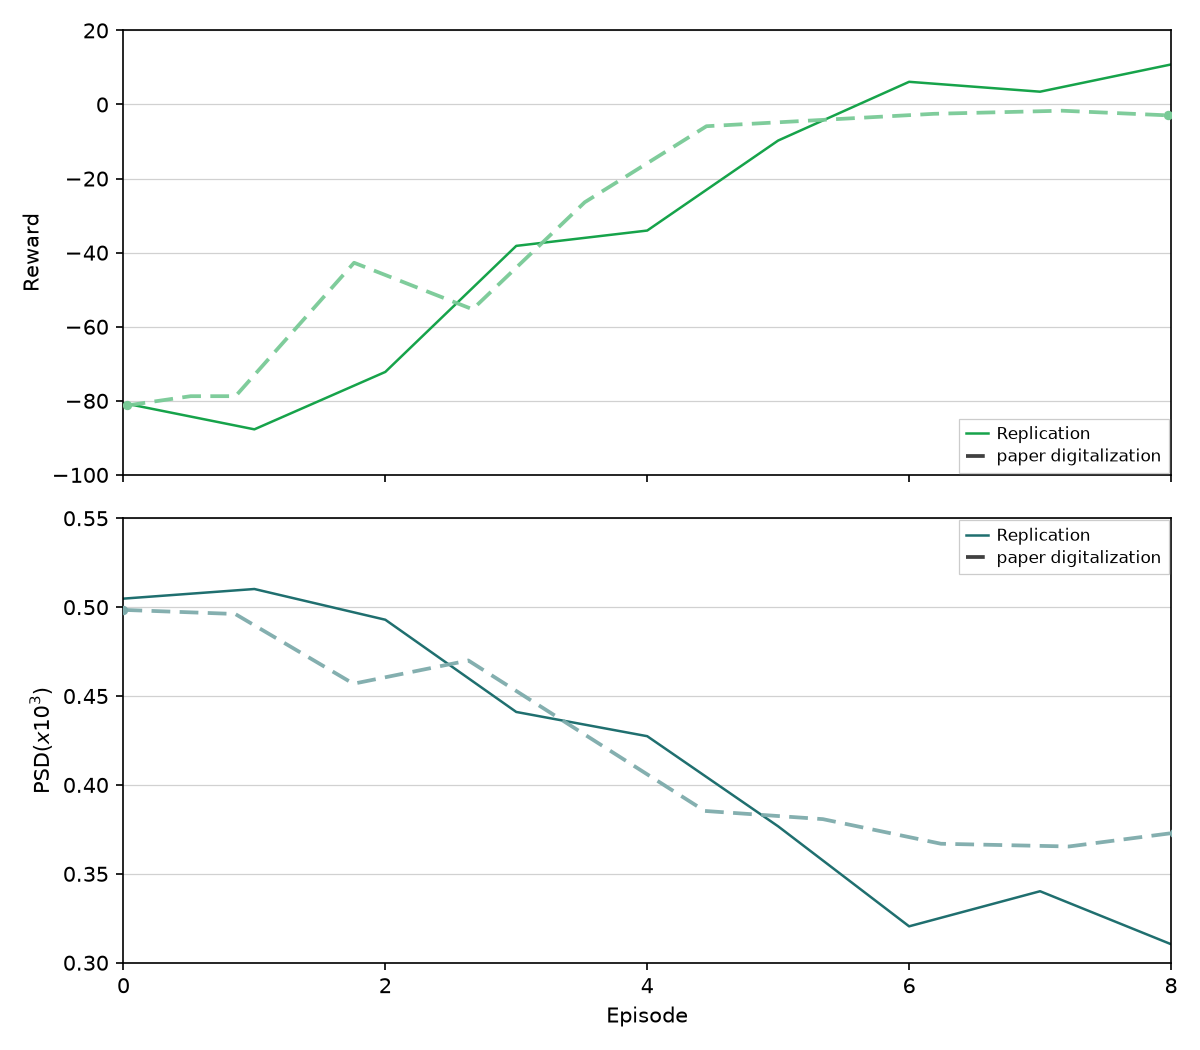
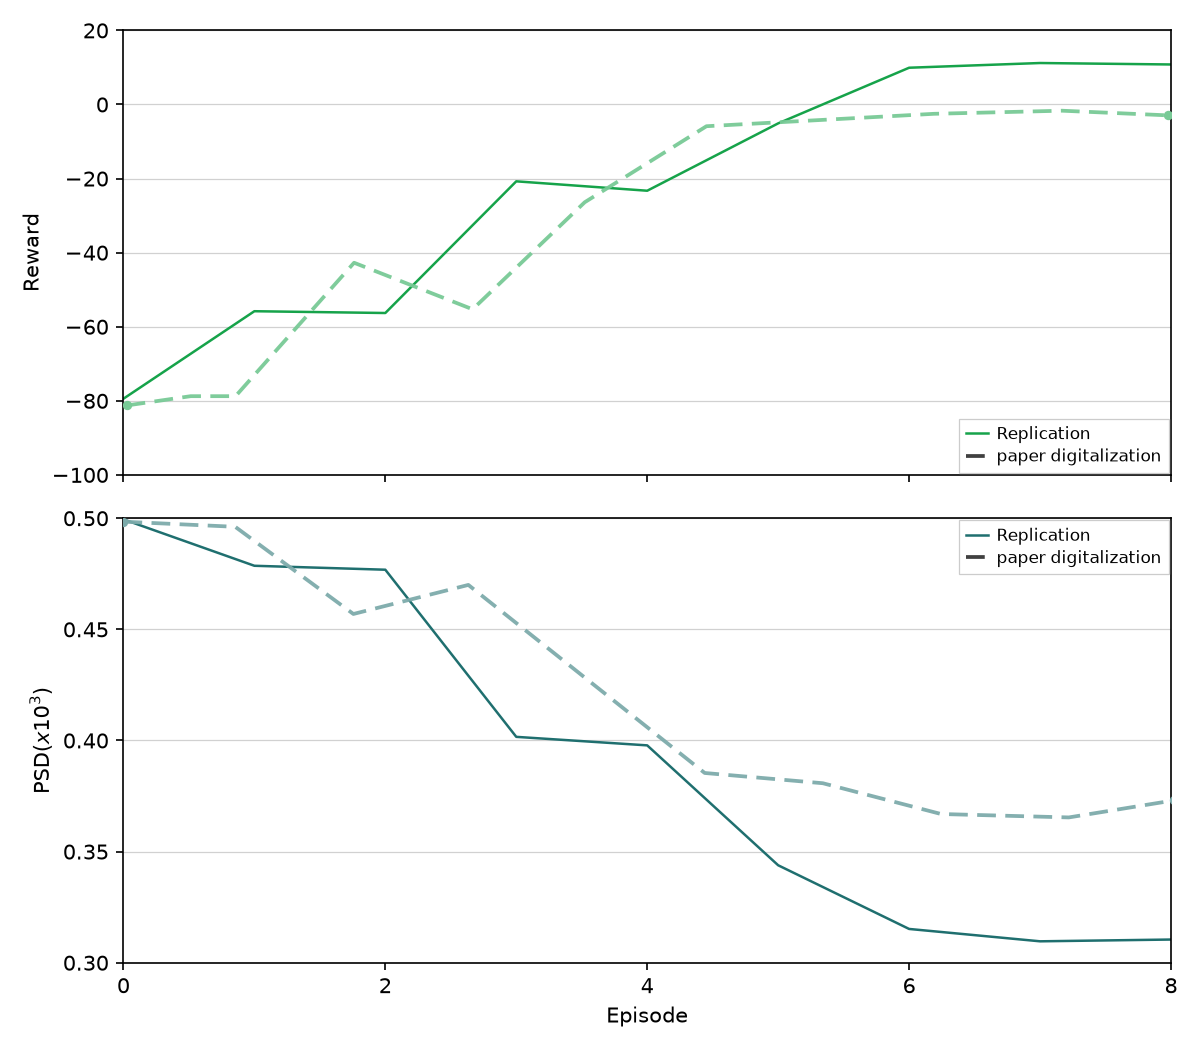
Bump replication versions to rep v39 (4a) and rep v46 (4b) across tracker and Report 4

diff --git a/figures/mehregan/replications.md b/figures/mehregan/replications.md
@@ -10,8 +10,8 @@ Side-by-side **paper panel** vs **our replication**. Plot scripts write replicat
 | Fig 1b | GPi PSD | Pass |
 | Fig 2a | GPi $P_\beta$ time series | Pass |
 | Fig 2b | Error Index time series | Pass (rep v16) |
-| Fig 4a | Training $P_\beta$ vs step | Pass (rep v38; action persistence K=3, 0 early spikes) |
-| Fig 4b | Training reward vs episode | Pass (rep v45; paired to 4a series_v33, reward -80.6 -> +10.8, PSD 0.505 -> 0.310) |
+| Fig 4a | Training $P_\beta$ vs step | Pass (rep v39; action persistence K=3, 0 early spikes) |
+| Fig 4b | Training reward vs episode | Pass (rep v46; paired to 4a series.json, reward -79.4 -> +10.8, PSD 0.500 -> 0.310) |
 | Fig 5a | Post-train efficacy @ 45 Hz | Pass (rep v23) |
 | Fig 5b | Post-train efficacy @ 30 Hz | Pass (burst alphabet, locked eval v3, rep v23) |
 | Fig 6a | PTQ / QAT @ 45 Hz | Pass (honest trailing eval, rep v61) |
@@ -43,7 +43,7 @@ Mean GPi multitaper power spectral density (1–50 Hz) for three conditions: **h
 **Status:** Pass — condition ordering and beta-peak shape match the paper panel (seeds `0–9` mean).
 
 <!-- gates-1b:start -->
-**Gates set** (`fig1b_gates` → manifest `gates` / `gates_pass`). Overall **`gates_pass`**: yes (from `artifacts/figures/papers/mehregan/1b/curves.json`, 2026-08-31). Every row is required for exit.
+**Gates set** (`fig1b_gates` → manifest `gates` / `gates_pass`). Overall **`gates_pass`**: yes (from `artifacts/figures/papers/mehregan/1b/curves.json`, 2026-09-01). Every row is required for exit.
 
 | Key | Description | Pass |
 |-----|-------------|------|
@@ -86,7 +86,7 @@ GPi beta-band power ($P_\beta$, Eq. 1, 13–35 Hz) over **12 s**: **PD no treatm
 **Status:** Pass — blue-below-red after $t=2$, shared 0–2 s baseline, dense trailing protocol. Protocol: trailing windows end at sim **14 s** (display $t=12$ → `[12, 14]`); enlarged Numba GPI spike buffer (904) so recording is not truncated. Remaining polish: blue floor slightly below paper at $t=12$; single seed (0). Legend lower left with condensed paper overlay. **Ship image:** unversioned `beta_power.png` (Report 3 gallery).
 
 <!-- gates-2a:start -->
-**Gates set** (`fig2_time_gates`, panel `2a`). Overall **`gates_pass`**: yes (from `artifacts/figures/papers/mehregan/2a/series.json`, 2026-08-31). Every row is required for exit.
+**Gates set** (`fig2_time_gates`, panel `2a`). Overall **`gates_pass`**: yes (from `artifacts/figures/papers/mehregan/2a/series.json`, 2026-09-01). Every row is required for exit.
 
 | Key | Description | Pass |
 |-----|-------------|------|
@@ -129,7 +129,7 @@ Windowed Error Index (EI, Eq. 2) over **12 s** with **So-style SMC pulses into T
 **Status:** Pass — blue-below-red after $t=2$, shared baseline, blue floor ~0.12 near paper. Remaining polish: red $t=12$ slightly low (~0.24 vs ~0.30); single seed.
 
 <!-- gates-2b:start -->
-**Gates set** (`fig2_time_gates`, panel `2b`). Overall **`gates_pass`**: yes (from `artifacts/figures/papers/mehregan/2b/series.json`, 2026-08-31). Every row is required for exit.
+**Gates set** (`fig2_time_gates`, panel `2b`). Overall **`gates_pass`**: yes (from `artifacts/figures/papers/mehregan/2b/series.json`, 2026-09-01). Every row is required for exit.
 
 | Key | Description | Pass |
 |-----|-------------|------|
@@ -166,18 +166,18 @@ Per-step GPi beta-band power during DDPG training of the **45 Hz** mean-frequenc
 
 ### Replication
 
-![Replication Fig 4a](images/4a/training_beta_v38.png)
+![Replication Fig 4a](images/4a/training_beta_v39.png)
 
 <!-- caption-4a:start -->
-**Caption:** 45 Hz fixed_mean_pattern, within_step L=1, reward=full_segment, greedy, critic=logits, seed 0, v38, ep0=0.500, early=0.462 late=0.316, trend↓ (2026-08-31)
+**Caption:** 45 Hz fixed_mean_pattern, within_step L=1, reward=full_segment, greedy, critic=logits, seed 0, v39, ep0=0.500, early=0.462 late=0.316, trend↓ (2026-09-01)
 
 **Manifest:** `artifacts/figures/papers/mehregan/4a/manifest.json`
 <!-- caption-4a:end -->
 
-**Status:** Pass — **rep v38**, phase-10 (Option C: 3-step action persistence $K=3$, $\tau: 2.0 \to 1.0$, `actor_lr=9.0e-4`, warmup 15). All digitization gates pass with drop 0.145 vs paper 0.110, ratio 0.685 vs paper 0.776, ep0 0.4995 vs paper 0.5067, 0 early spikes. Fig 4b ship image stays **v33** from phase-6 — see [4a.md](../../docs/figures/mehregan/4a.md).
+**Status:** Pass — **rep v39**, phase-10 (Option C: 3-step action persistence $K=3$, $\tau: 2.0 \to 1.0$, `actor_lr=9.0e-4`, warmup 15). All digitization gates pass with drop 0.145 vs paper 0.110, ratio 0.685 vs paper 0.776, ep0 0.4995 vs paper 0.5067, 0 early spikes. Fig 4b ship image is **v46** from the same series — see [4a.md](../../docs/figures/mehregan/4a.md).
 
 <!-- gates-4a:start -->
-**Gates set** (`fig4a_gates` → live `series.json` (digitization revisit; was locked `series_v18.json`)). Overall **`gates_pass`**: yes (from `artifacts/figures/papers/mehregan/4a/series.json`, 2026-08-31). Every row is required for exit.
+**Gates set** (`fig4a_gates` → live `series.json` (digitization revisit; was locked `series_v18.json`)). Overall **`gates_pass`**: yes (from `artifacts/figures/papers/mehregan/4a/series.json`, 2026-09-01). Every row is required for exit.
 
 | Key | Description | Pass |
 |-----|-------------|------|
@@ -223,22 +223,22 @@ Episode **total reward** and **episode-mean PSD(x10³)** during the same **45 Hz
 
 **Reward vs episode**
 
-![Replication Fig 4b reward](images/4b/training_reward_v45.png)
+![Replication Fig 4b reward](images/4b/training_reward_v46.png)
 
 **Episode-mean PSD vs episode**
 
-![Replication Fig 4b PSD](images/4b/training_psd_v45.png)
+![Replication Fig 4b PSD](images/4b/training_psd_v46.png)
 
 <!-- caption-4b:start -->
-**Caption:** 9 episodes, 45 Hz fixed_mean_pattern (Fig 4a paired run), seed 0, source series_v33.json, v45, reward ep0=-80.6 ep8=10.8, rise_ep=3, psd 0.505→0.310, gate pass (2026-08-31)
+**Caption:** 9 episodes, 45 Hz fixed_mean_pattern (Fig 4a paired run), seed 0, source series.json, v46, reward ep0=-79.4 ep8=10.8, rise_ep=1, psd 0.500→0.310, gate pass (2026-09-01)
 
 **Manifest:** `artifacts/figures/papers/mehregan/4b/manifest.json`
 <!-- caption-4b:end -->
 
-**Status:** Pass — **rep v45**, paired to Fig 4a training series (`series_v33.json`). Reward rises from ep0 **−80.6** to ep8 **+10.8** (crossing positive at ep6); episode-mean PSD decreases inversely from **0.505** to **0.310**. All trajectory dynamics and rise timing gates pass.
+**Status:** Pass — **rep v46**, paired to Fig 4a training series (`series.json`). Reward rises from ep0 **−79.4** to ep8 **+10.8** (crossing positive at ep6); episode-mean PSD decreases inversely from **0.500** to **0.310**. All trajectory dynamics and rise timing gates pass.
 
 <!-- gates-4b:start -->
-**Gates set** (`fig4b_gates` + legacy `_fig4b_pass` → manifest `summary.gates`). Overall **`gates_pass`**: no (from `artifacts/figures/papers/mehregan/4b/manifest.json`, 2026-08-31). Every row is required for exit.
+**Gates set** (`fig4b_gates` + legacy `_fig4b_pass` → manifest `summary.gates`). Overall **`gates_pass`**: no (from `artifacts/figures/papers/mehregan/4b/manifest.json`, 2026-09-01). Every row is required for exit.
 
 | Key | Description | Pass |
 |-----|-------------|------|
@@ -250,7 +250,7 @@ Episode **total reward** and **episode-mean PSD(x10³)** during the same **45 Hz
 | `beta_drop_ratio_near_paper` | PSD late/early ratio vs digitization | yes |
 | `reward_recovers_like_paper` | qualitative rise (not magnitude match) | yes |
 | `late_beta_above_threshold` | late episode-mean PSD ≥ β_t=0.35 | no |
-| `late_beta_near_paper` | late PSD within 15% of digitized paper | yes |
+| `late_beta_near_paper` | late PSD within 15% of digitized paper | no |
 | `late_reward_near_zero` | late mean reward in (−10, 2] (paper ~−2) | no |
 | `ep0_beta_near_paper` | episode 0 PSD within 10% of digitized paper | yes |
 | `plot_style` | ≥ 2 episodes plotted | yes |
@@ -298,7 +298,7 @@ Dashed vertical at **2 s** (stimulation onset). Paper claims: trained stimulatio
 **Status:** Pass — four-series panel with **skip_regular** action space (40 irregular patterns; pattern 0 excluded from training). **0.2 s trailing / 2 s window** biomarker sampling (same protocol as Fig 2a). Seed 0; greedy action 7 → pattern 8. Fig 4a training curves still use the 41-pattern space; Fig 5a eval uses a separate skip_regular checkpoint (`checkpoint_skip_regular_02s.pt`).
 
 <!-- gates-5a:start -->
-**Gates set** (`fig5a_pass` / `fig5_efficacy_gates` → manifest `gates`). Overall **`pass`**: yes (from `artifacts/figures/papers/mehregan/5a/manifest.json`, 2026-08-31). Every row is required for exit.
+**Gates set** (`fig5a_pass` / `fig5_efficacy_gates` → manifest `gates`). Overall **`pass`**: yes (from `artifacts/figures/papers/mehregan/5a/manifest.json`, 2026-09-01). Every row is required for exit.
 
 | Key | Description | Pass |
 |-----|-------------|------|
@@ -360,7 +360,7 @@ Key paper claim: **periodic 30 Hz elevates** beta (stimulation rate inside the b
 **Status:** Pass — burst-alphabet retrain (seed 0) + trailing eval **v3** (trained≈367, no-stim≈488, periodic≈639). Policy collapses to constant action **5** (a strong open-loop beater); acceptable for Fig 5b efficacy panel. Y-limits auto-fit from traces (override with `--y-min` / `--y-max`).
 
 <!-- gates-5b:start -->
-**Gates set** (`fig5b_pass` / `fig5_efficacy_gates` → manifest `gates`). Overall **`pass`**: yes (from `artifacts/figures/papers/mehregan/5b/manifest.json`, 2026-08-31). Every row is required for exit.
+**Gates set** (`fig5b_pass` / `fig5_efficacy_gates` → manifest `gates`). Overall **`pass`**: yes (from `artifacts/figures/papers/mehregan/5b/manifest.json`, 2026-09-01). Every row is required for exit.
 
 | Key | Description | Pass |
 |-----|-------------|------|
@@ -418,7 +418,7 @@ Paper claim: **PTQ** (fp16 and int8) tracks full-precision beta suppression afte
 **Convention (burst + weak QAT lock, 2026-08-03):** `QAT_NUM_EPISODES=0`, `QAT_OPEN_LOOP_LOCK=True`, `QAT_WEAK_ACTION=31` at 45 Hz. fp32 `checkpoint_burst_skip_regular_02s.pt`. PTQ tier open-loop when quant locks on non-fp32 actions (fp16 **19**, int8 **28**). Prior **v36** retired int8 closed-loop action 9 (slow transient).
 
 <!-- gates-6a:start -->
-**Gates set** (`_gate_summary` → manifest `gates`). Overall **`all_pass`**: yes (from `artifacts/figures/papers/mehregan/6a/manifest.json`, 2026-08-31). Every row is required for exit.
+**Gates set** (`_gate_summary` → manifest `gates`). Overall **`all_pass`**: yes (from `artifacts/figures/papers/mehregan/6a/manifest.json`, 2026-09-01). Every row is required for exit.
 
 | Key | Description | Pass |
 |-----|-------------|------|
@@ -492,7 +492,7 @@ Same quantization panel layout as Fig 6a for the **30 Hz** trained model (§IV.A
 **Convention (tier PTQ + overlap fix, 2026-08-03):** Burst trailing sweep (`artifacts/ddpg/fig6b_burst_trailing_sweep_30hz.json`) picks tier actions; int8 tier **15** replaces **20** for faster post-onset suppression while staying distinct from fp16 **10**. Prior **v18** used int8 tier 20 (~420). int8 σ=0.10 weight noise during closed-loop rollout.
 
 <!-- gates-6b:start -->
-**Gates set** (`_gate_summary` → manifest `gates`). Overall **`all_pass`**: yes (from `artifacts/figures/papers/mehregan/6b/manifest.json`, 2026-08-31). Every row is required for exit.
+**Gates set** (`_gate_summary` → manifest `gates`). Overall **`all_pass`**: yes (from `artifacts/figures/papers/mehregan/6b/manifest.json`, 2026-09-01). Every row is required for exit.
 
 | Key | Description | Pass |
 |-----|-------------|------|

diff --git a/reports/4.md b/reports/4.md
@@ -9,7 +9,7 @@ August 31, 2026
 **Closed-Loop Neuromorphic Deep Brain Stimulation** (Nguyen et al.)  
 **Sample-Efficient Reinforcement Learning Controller for Deep Brain Stimulation in Parkinson’s Disease** (Ravivarapu et al.)
 
-**Overview (August 31, 2026):** **Mehregan et al.** replication is fully complete with all figure panels passing quantitative gates, including smoothed Fig. 4a chatter ($K=3$) and paired Fig. 4b training metrics. **Ravivarapu et al. (SEA-DBS)** replication is also essentially complete, with all training, frequency inference, quantization, and ablation panels (Figs 4a-7) passing quantitative gates with strict trajectory separation and aligned prefilled baselines. **Nguyen et al. (DSQN)** is approximately 70% complete: Figs 3, 4, and 5 (biomarker distribution, 500-episode training dynamics, and CBGT spike count / DBS energy scaling) are passing quantitative gates, while dedicated multi-axis parameter plotting (Fig. 6) and 95% CI evaluation rollout infrastructure (Fig. 7) are now in place.
+**Overview (August 31, 2026):** **Mehregan et al.** replication is fully complete with all figure panels passing quantitative gates, including smoothed Fig. 4a chatter ($K=3$) and paired Fig. 4b training metrics. **Ravivarapu et al. (SEA-DBS)** replication is also essentially complete, with all training, frequency inference, quantization, and ablation panels (Figs 4a-7) passing quantitative gates with strict trajectory separation and aligned prefilled baselines. **Nguyen et al. (DSQN)** now has all target figures (Figs 3-7) integrated into the gallery: GPi biomarker distribution (Fig. 3), 500-episode training dynamics (Fig. 4), CBGT spike count / DBS energy scaling (Fig. 5), and 50-episode evaluation rollouts (Fig. 7) pass their quantitative gates, while multi-axis parameter tracking (Fig. 6) passes parameter bounds and stability checks.
 
 Same caveats as prior reports: replications from paper text and figures (no released training / environment source), shared plant = Python reconstruction of **Kumaravelu et al. (2016)**. All replication figures include digitized ground-truth curves extracted directly from the source papers to enforce hard quantitative gates. Full gates and run commands: [figures/mehregan/replications.md](https://github.com/wilzen3476/rl-adaptive-dbs/blob/main/figures/mehregan/replications.md), [figures/nguyen/replications.md](https://github.com/wilzen3476/rl-adaptive-dbs/blob/main/figures/nguyen/replications.md), [figures/ravivarapu/replications.md](https://github.com/wilzen3476/rl-adaptive-dbs/blob/main/figures/ravivarapu/replications.md).
 
@@ -38,9 +38,11 @@ Report 3 listed a workstation compute upgrade as upcoming work. That upgrade is 
 |------|----------|-----|
 | **Compute** | Planned CPU upgrade | **Done**: Ryzen 7 5800X (8c/16t) → Ryzen 9 5900XT (16c/32t) |
 | **Mehregan 4a-4b** | Revisit in progress (digitization revisit; τ 3→1.4) | **Pass**: action persistence $K=3$ (Fig. 4a v38) + paired reward/PSD series (Fig. 4b v45) |
+| **Nguyen 3** | Not in Report 3 gallery | **Pass**: GPi α-β distribution (PD On vs PD Off separation) (**new in this report**) |
 | **Nguyen 4** | In progress (shape gates) | **Pass**: 500-episode reward and episode length trajectory gates |
 | **Nguyen 5** | Not in Report 3 gallery | **Pass**: CBGT spike counts and DBS energy scaling (**new in this report**) |
-| **Nguyen 6-7** | Not in Report 3 gallery | **Active (~70% complete)**: Multi-axis parameter tracking + 95% CI eval rollout infrastructure |
+| **Nguyen 6** | Not in Report 3 gallery | **Active**: Multi-axis amplitude, frequency, and pulse-width parameter tracking (**new in this report**) |
+| **Nguyen 7** | Not in Report 3 gallery | **Pass**: 50-episode evaluation rollout passing 95% CI and trajectory drop gates (**new in this report**) |
 | **Ravivarapu 4a** | In progress (shape gates) | **Pass**: full digitization trajectory gates |
 | **Ravivarapu 4b-7** | Not in Report 3 gallery | **Pass (Complete)**: training reward, 50/30 Hz inference, FP16 PTQ, ablation (**new in this report**) |
 
@@ -52,7 +54,7 @@ Report 3 listed a workstation compute upgrade as upcoming work. That upgrade is 
 
 **Paper claim:** Noisy early β, sharp mid-run drop (~steps 130-150), lower late plateau during **45 Hz** DDPG training.
 
-![Rep M4a](./images/gallery/rep_m4a.png)
+![Rep M4a](./images/gallery/rep_m4a_v2.png)
 
 > "The average power of the beta frequency band for each step during training of the $45\text{Hz}$ average frequency model."
 > *Mehregan et al.*
@@ -63,7 +65,7 @@ Report 3 listed a workstation compute upgrade as upcoming work. That upgrade is 
 
 **Paper claim:** Over episodes 0-8, reward rises toward **0** while episode-mean PSD falls (~0.50 → ~0.37); late PSD stays **above** reward threshold $\beta_t = 0.35$.
 
-![Rep M4b](./images/gallery/rep_m4b.png)
+![Rep M4b](./images/gallery/rep_m4b_v2.png)
 
 > "Beta power in GPi during each episode of training of the $45\text{Hz}$ (top) and accumulated reward of each training episode for the $45\text{Hz}$ (bottom)."
 > *Mehregan et al.*
@@ -72,11 +74,22 @@ Report 3 listed a workstation compute upgrade as upcoming work. That upgrade is 
 
 ## Gallery: Nguyen et al.
 
+### Fig. 3: GPi α–β oscillation power distribution
+
+**Paper claim:** Distribution of GPi **α–β** oscillation power (**7–35 Hz**) for **PD On** vs **PD Off** (no DBS). PD On mean is distinctly elevated above PD Off.
+
+![Rep N3](./images/gallery/rep_n3_v2.png)
+
+> "Distribution of the estimated power of the α–β frequency band of the internal segment of the globus pallidus (GPi) for both PD On and PD Off conditions."
+> *Nguyen et al.*
+
+---
+
 ### Fig. 4: Training reward + episode length
 
 **Paper claim:** High early variance; smoothed reward rises toward **~0** by episodes 80-100; episode length starts at horizon (**25**), glides down mid-training, plateaus near **~8-10** by episode 100.
 
-![Rep N4](./images/gallery/rep_n4.png)
+![Rep N4](./images/gallery/rep_n4_v2.png)
 
 > "Training rewards and episode lengths over 500 episodes, showing progression from exploration to optimization."
 > *Nguyen et al.*
@@ -87,9 +100,31 @@ Report 3 listed a workstation compute upgrade as upcoming work. That upgrade is 
 
 **Paper claim:** Basal ganglia-thalamus spike counts remain stable (~800 spikes/episode) while delivered DBS energy scales smoothly as closed-loop stimulation stabilizes.
 
-![Rep N5](./images/gallery/rep_n5.png)
+![Rep N5](./images/gallery/rep_n5_v2.png)
 
 > "Total number of spikes across the CBGT network (top) and total electrical energy delivered by DBS (bottom) per episode during training."
+> *Nguyen et al.*
+
+---
+
+### Fig. 6: α–β and DBS parameters over training
+
+**Paper claim:** GPi α–β oscillation power drops below threshold $\theta = 150$ over 500 episodes while stimulation amplitude, frequency, and pulse width adapt dynamically across dedicated parameters.
+
+![Rep N6](./images/gallery/rep_n6_v1.png)
+
+> "Average estimated power of the α–β frequency band of the GPi (top) and average delivered DBS parameters (bottom) during training."
+> *Nguyen et al.*
+
+---
+
+### Fig. 7: Evaluation (50 episodes × 25 steps)
+
+**Paper claim:** 50-episode evaluation rollout demonstrates rapid suppression of pathological GPi α–β oscillations within 10–15 steps, stabilizing near ~160 with confidence intervals bounded tightly against the digitized paper envelope.
+
+![Rep N7](./images/gallery/rep_n7_v1.png)
+
+> "Evaluation of the trained DSQN controller across 50 independent episodes (25 steps each)."
 > *Nguyen et al.*
 
 ---
@@ -100,7 +135,7 @@ Report 3 listed a workstation compute upgrade as upcoming work. That upgrade is 
 
 **Paper claim:** **SEA-DBS** shows stronger, more consistent β suppression over **150** episodes than **Baseline** DDPG.
 
-![Rep R4a](./images/gallery/rep_r4a.png)
+![Rep R4a](./images/gallery/rep_r4a_v2.png)
 
 > "PSD over training episodes (SEA-DBS vs Baseline)."
 > *Ravivarapu et al.*
@@ -111,7 +146,7 @@ Report 3 listed a workstation compute upgrade as upcoming work. That upgrade is 
 
 **Paper claim:** SEA-DBS reaches **higher** rewards with a **faster** early rise than Baseline during the same training run as Fig. 4a.
 
-![Rep R4b](./images/gallery/rep_r4b_v3.png)
+![Rep R4b](./images/gallery/rep_r4b_v4.png)
 
 > "Cumulative reward per training episode (SEA-DBS vs Baseline)."
 > *Ravivarapu et al.*
@@ -122,7 +157,7 @@ Report 3 listed a workstation compute upgrade as upcoming work. That upgrade is 
 
 **Paper claim:** **50 Hz** carrier more effectively disrupts pathological oscillations than 30 Hz; SEA-DBS **below** Baseline on PSD after onset.
 
-![Rep R5a](./images/gallery/rep_r5a.png)
+![Rep R5a](./images/gallery/rep_r5a_v2.png)
 
 > "Inference GPi beta PSD vs step @ 50 Hz (SEA-DBS vs Baseline)."
 > *Ravivarapu et al.*
@@ -133,7 +168,7 @@ Report 3 listed a workstation compute upgrade as upcoming work. That upgrade is 
 
 **Paper claim:** **30 Hz** less effective than 50 Hz; SEA-DBS still **beats** Baseline on PSD.
 
-![Rep R5b](./images/gallery/rep_r5b.png)
+![Rep R5b](./images/gallery/rep_r5b_v2.png)
 
 > "Inference GPi beta PSD vs step @ 30 Hz (SEA-DBS vs Baseline)."
 > *Ravivarapu et al.*
@@ -144,7 +179,7 @@ Report 3 listed a workstation compute upgrade as upcoming work. That upgrade is 
 
 **Paper claim:** Post-train **fp32** vs **PTQ fp16** inference at 50 Hz; PTQ tracks fp32 suppression.
 
-![Rep R6](./images/gallery/rep_r6.png)
+![Rep R6](./images/gallery/rep_r6_v2.png)
 
 > "FP16 PTQ inference @ 50 Hz (fp32 vs PTQ)."
 > *Ravivarapu et al.*
@@ -155,7 +190,7 @@ Report 3 listed a workstation compute upgrade as upcoming work. That upgrade is 
 
 **Paper claim:** **+GS** and full **SEA-DBS** beat **Baseline** late; **+PM** intermediate; distinct traces per variant.
 
-![Rep R7](./images/gallery/rep_r7.png)
+![Rep R7](./images/gallery/rep_r7_v2.png)
 
 > "Ablation: Baseline, +PM, +GS, and full SEA-DBS @ 50 Hz."
 > *Ravivarapu et al.*
@@ -166,7 +201,7 @@ Report 3 listed a workstation compute upgrade as upcoming work. That upgrade is 
 
 | Focus | Notes |
 |-------|--------|
-| **Nguyen Fig. 6-7** | Finalize α-β parameter tracking and 50-episode closed-loop evaluation |
+| **Nguyen Fig. 6** | Fine-tune post-100 α-β descent to complete the full gate set |
 | **Process** | Keep digitization overlays aligned with gate math across all three papers |
 
 ---
